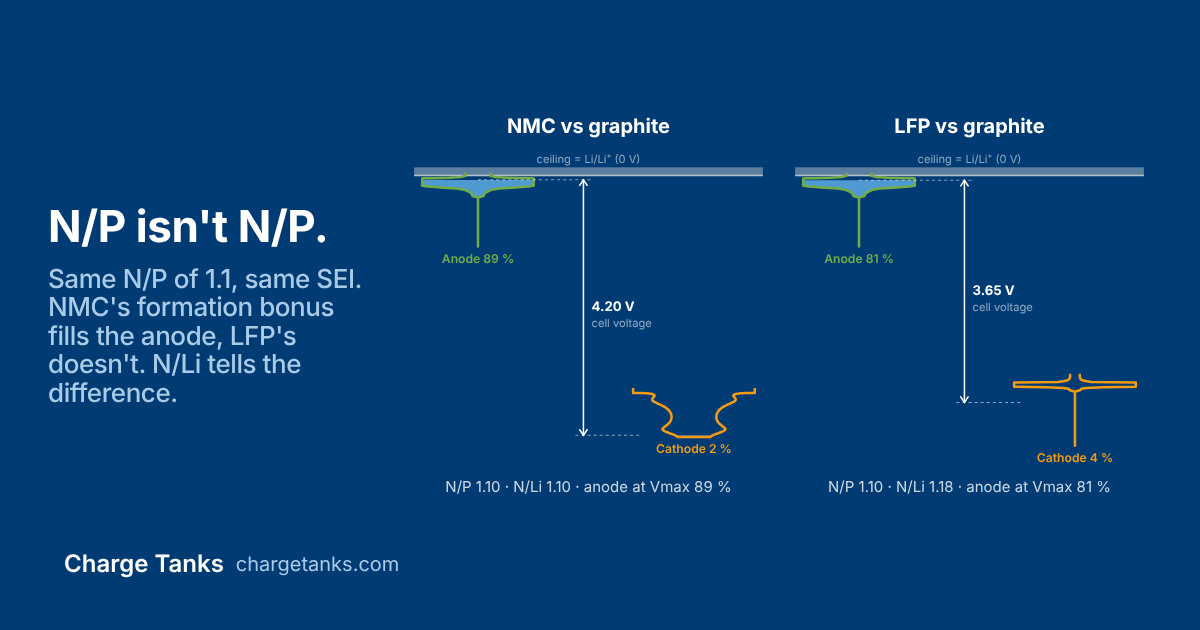
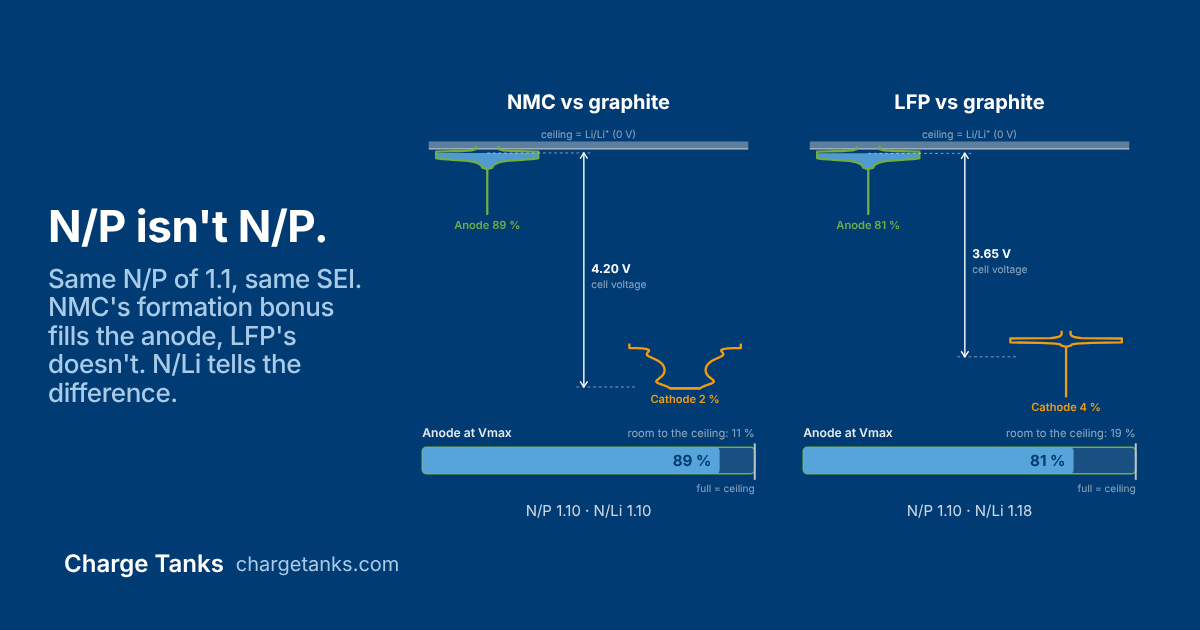
Tab 3: Struktur ab dem Konto, Balken N/P vs. N/Li, Bergwerk-Schema, Fuellbalken im Vergleich
- Reihenfolge: Konto -> N/P und N/Li (Balkenbild, Kathode = 1) -> Plot + Tool -> Vergleich
  NMC/LFP -> Praelithiierung; festes Tankbild vor dem Tool und Satz zum Designhebel entfallen
- Neues Schema: Kathode als Bergwerk (wie gebaut, erstes Laden, Entladen)
- Vergleich NMC/LFP: grosser Fuellbalken der Anode bei Vmax, Post-Bild neu gerendert

Claude-Session: https://claude.ai/code/session_019Y4aNFRsReFuU7bs6pvnkj

Changed region(s): [[0.3392, 0.3921, 0.9558, 0.8143], [0.3392, 0.1508, 0.9558, 0.4222], [0.4625, 0.6032, 0.4933, 0.6333]]

diff --git a/assets/js/site/chapter.js b/assets/js/site/chapter.js
@@ -588,6 +588,23 @@ export function compareCells() {
   });
 }
 
+// Fuellgrad der Anode bei Vmax als grosser Balken: im Tankbild ist der Unterschied mit blossem Auge kaum zu sehen
+function drawFillGauge(container, fill) {
+  const W = 360;
+  const H = 74;
+  const x0 = 16;
+  const x1 = W - 16;
+  const svg = svgRoot(container, W, H, `Anode filled to ${pct(fill)} at Vmax`);
+  const xf = x0 + (x1 - x0) * Math.min(1, fill);
+  svg.append(el('text', { x: x0, y: 16, fill: C.text, 'font-size': 12, 'font-weight': 600 }, 'Anode at Vmax'));
+  svg.append(el('text', { x: x1, y: 16, fill: C.muted, 'font-size': 11, 'text-anchor': 'end' }, `room to the ceiling: ${pct(1 - fill)}`));
+  svg.append(el('rect', { x: x0, y: 26, width: x1 - x0, height: 26, rx: 4, fill: 'rgb(255 255 255 / 0.10)', stroke: C.anode, 'stroke-width': 1.5 }));
+  svg.append(el('rect', { x: x0, y: 26, width: xf - x0, height: 26, rx: 4, fill: C.water, opacity: 0.9 }));
+  svg.append(el('text', { x: xf - 8, y: 44, fill: '#003b73', 'font-size': 15, 'font-weight': 700, 'text-anchor': 'end' }, pct(fill)));
+  svg.append(el('line', { x1, x2: x1, y1: 22, y2: 58, stroke: C.metal, 'stroke-width': 2 }));
+  svg.append(el('text', { x: x1, y: 70, fill: C.muted, 'font-size': 10, 'text-anchor': 'end' }, 'full = ceiling'));
+}
+
 async function initCompare(fig) {
   await loadReal();
   const holder = fig.querySelector('[data-figure-parts]');
@@ -602,8 +619,11 @@ async function initCompare(fig) {
     drawTanks(tanks, c.cell, c.cell.xMax);
     const facts = document.createElement('p');
     facts.className = 'ch-compare__facts';
-    facts.textContent = `N/P ${fmt(COMPARE.np)} · N/Li ${fmt(c.acc.nLi)} · anode at Vmax ${pct(c.fill)}`;
-    part.append(head, tanks, facts);
+    facts.textContent = `N/P ${fmt(COMPARE.np)} · N/Li ${fmt(c.acc.nLi)}`;
+    const gauge = document.createElement('div');
+    gauge.className = 'ch-compare__gauge';
+    drawFillGauge(gauge, c.fill);
+    part.append(head, tanks, gauge, facts);
     holder.append(part);
   }
 }

diff --git a/assets/css/site.css b/assets/css/site.css
@@ -1500,6 +1500,20 @@ body.has-fullscreen-chart {
   color: var(--gray-medium);
 }
 
+/* N/P und N/Li als Balken, Formeln als Text darunter */
+.ratio-figure svg { max-width: 26rem; }
+
+.ratio-legend {
+  display: grid;
+  gap: 0.5rem;
+  max-width: 26rem;
+  margin: 0.75rem auto 0;
+}
+
+.ratio-legend div { display: grid; gap: 0.125rem; }
+.ratio-legend dt { font-weight: 700; color: var(--navy); }
+.ratio-legend dd { margin: 0; font-size: 0.875rem; color: var(--gray-medium); }
+
 /* Vergleich NMC/LFP gegen Graphit: zwei Tankbilder nebeneinander */
 .ch-compare .ch-fig__parts { grid-template-columns: 1fr; }
 

diff --git a/config/og/render.html b/config/og/render.html
@@ -20,6 +20,8 @@
   .og--post .ch-compare .ch-fig__parts{grid-template-columns:1fr 1fr;padding:0;background:transparent;gap:16px}
   .og--post .ch-compare__name{font-size:20px}
   .og--post .ch-compare__facts{font-size:15px}
+  .og--post .ch-compare .ch-svg{max-height:300px}
+  .og--post .ch-compare__gauge .ch-svg{max-height:none}
 </style></head><body>
 <div class="og" id="og"></div>
 <script type="module">
